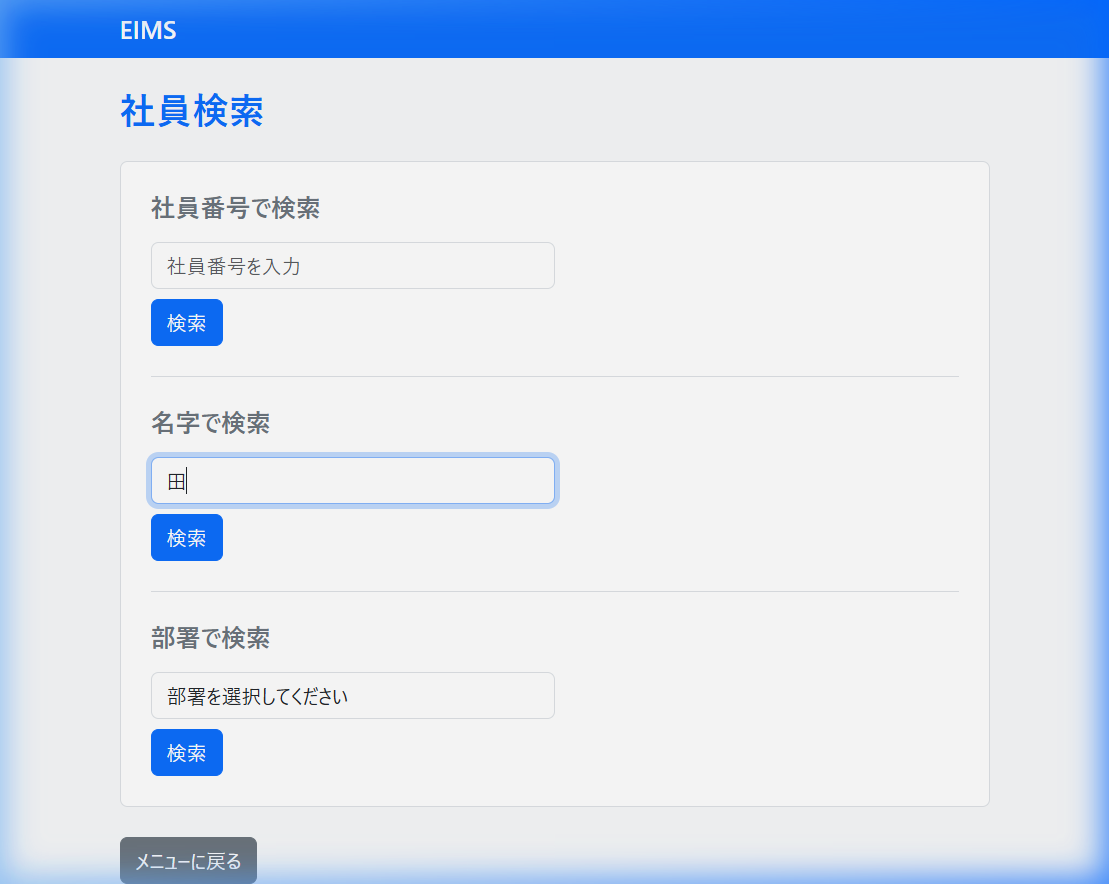
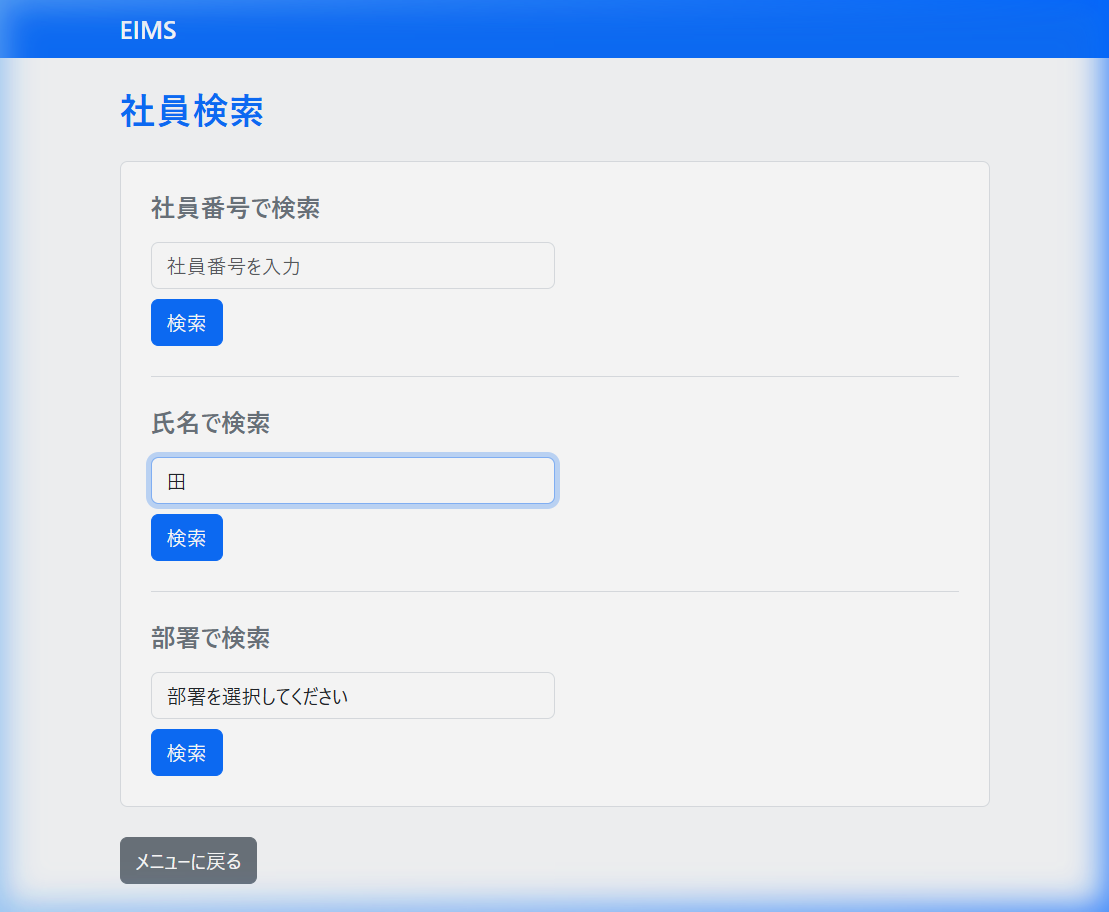
設計書と検索フォームのUI修正、および最新のDB環境に同期したスクリーンショットの再撮影

diff --git a/EIMS_SpringBoot_Basic/src/main/resources/templates/search.html b/EIMS_SpringBoot_Basic/src/main/resources/templates/search.html
@@ -23,10 +23,10 @@
                 <button type="submit" class="btn btn-primary">検索</button>
             </form>
 
-            <h5 class="mb-3 text-secondary border-top pt-4">社員名で検索</h5>
+            <h5 class="mb-3 text-secondary border-top pt-4">氏名で検索</h5>
             <form th:action="@{/selectByEmpName}" method="get" class="mb-4">
                 <div class="mb-2">
-                    <input type="text" name="keyword" class="form-control w-50" placeholder="名前を入力（部分一致）" required>
+                    <input type="text" name="keyword" class="form-control w-50" placeholder="氏名を入力" required>
                 </div>
                 <button type="submit" class="btn btn-primary">検索</button>
             </form>
